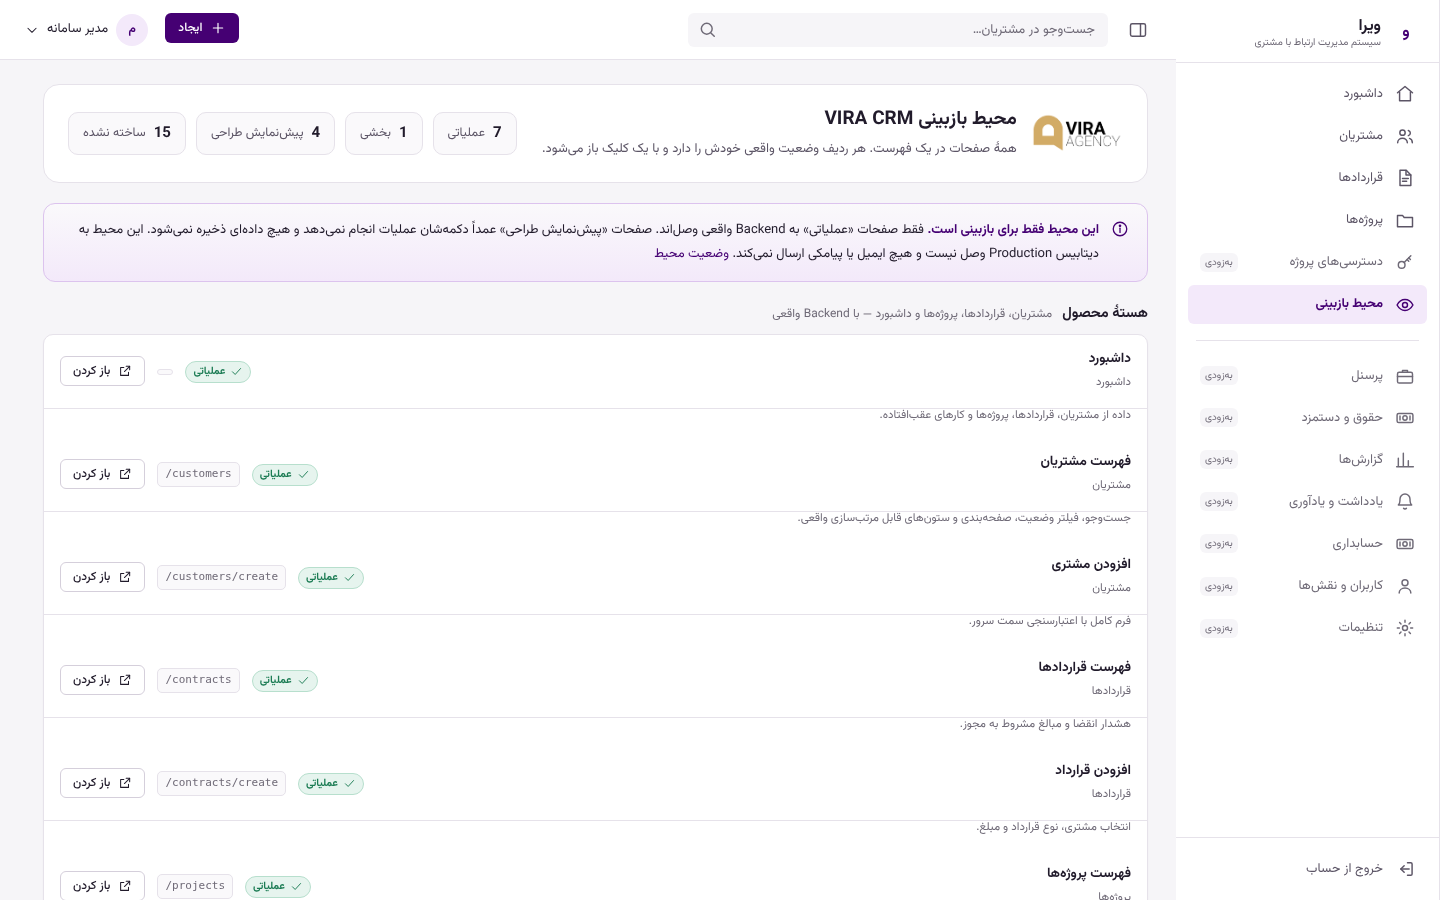
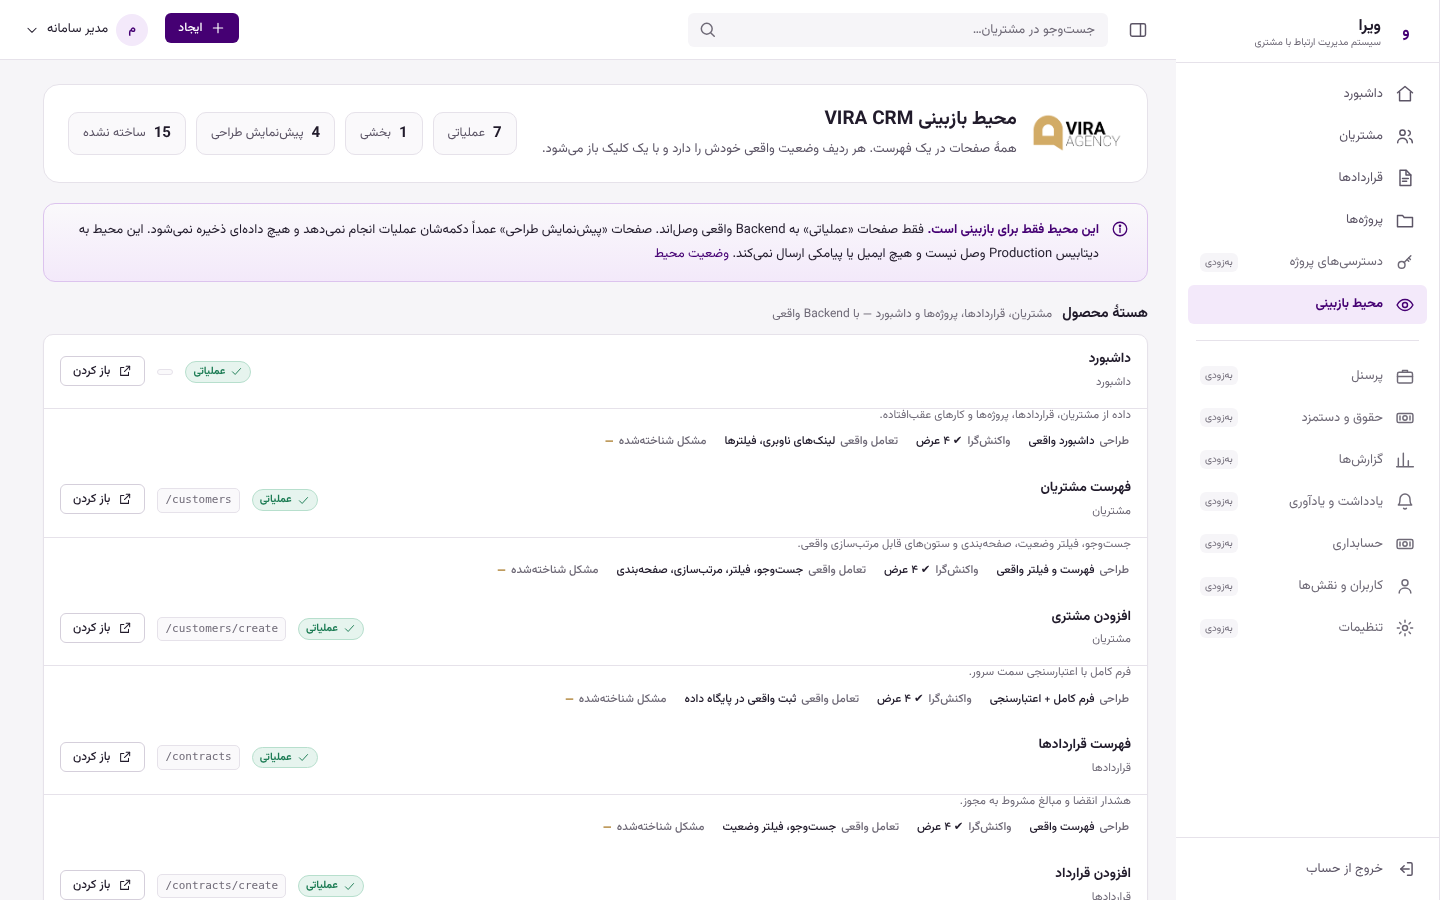
Review index: the four §20 dimensions per page, checked not assumed
The directive asks each catalogue entry to state its design, its responsive
coverage, what actually responds to a click and what is known to be broken —
not just a status label. Added design/responsive/interactive/issue to all 27
rows and rendered them as chips under each entry.

The values are deliberately NOT derived from status: contracts-index is
Functional and measured at 4 widths, drive is UI Preview and measured at 3,
employees is Not Implemented and measured at none. Flattening those into one
badge is exactly the confusion the four labels exist to prevent.

review-integrity.mjs check 7 fails if any row loses a dimension (7/7 now).
Evidence regenerated: 98 measurements, 28 screenshots, acceptance 13/13.

diff --git a/resources/css/review.css b/resources/css/review.css
@@ -309,3 +309,35 @@
 .v-table--fixed td {
     overflow-wrap: anywhere;
 }
+
+/* ── the four per-page dimensions (§20) ────────────────────────────────
+   A single wrapping row of label/value chips under each catalogue entry.
+   They wrap rather than truncate, because a truncated "known issue" is worse
+   than a taller row. */
+.v-review-dims {
+    display: flex;
+    flex-wrap: wrap;
+    gap: 6px 18px;
+    padding: 0 18px 12px;
+    margin-top: -6px;
+}
+.v-review-dim {
+    display: inline-flex;
+    align-items: baseline;
+    gap: 5px;
+    font-size: 11.5px;
+    line-height: 1.7;
+}
+.v-review-dim__label {
+    color: var(--vira-text-muted);
+    font-weight: 500;
+}
+.v-review-dim__value {
+    color: var(--vira-text);
+    font-weight: 500;
+}
+/* The last chip is the honest one; give it a hairline left rule so it reads as
+   a separate statement rather than part of the same list. */
+.v-review-dim:last-child .v-review-dim__value {
+    color: var(--vira-warning);
+}

diff --git a/config/review.php b/config/review.php
@@ -22,6 +22,14 @@
 |   3. "UI Preview" is a first-class status, not an apology. A screen with no
 |      backend says so on the page, in the sidebar, and in the inventory.
 |
+| FOUR DIMENSIONS per page (§20)
+|   The client asked for more than a status label: each page must say what the
+|   design is, whether it was measured responsively, what actually responds to a
+|   click, and what is known to be broken. `design`, `responsive`, `interactive`
+|   and `issue` are those four. They are NOT derived from `status`: a page can be
+|   Functional and still have no measured mobile layout, and saying so is the
+|   point.
+|
 | STATUS VOCABULARY (four values, no others)
 |   Functional .... backend and real interaction exist today
 |   Partial ....... some backend or interaction exists, but not the whole screen
@@ -68,42 +76,70 @@ return [
             'route' => 'dashboard', 'path' => '/', 'status' => 'Functional',
             'permission' => null, 'group' => 'core',
             'note' => 'داده از مشتریان، قراردادها، پروژهها و کارهای عقبافتاده.',
+            'design' => 'داشبورد واقعی',
+            'responsive' => '✔ ۴ عرض',
+            'interactive' => 'لینکهای ناوبری، فیلترها',
+            'issue' => '—',
         ],
         [
             'key' => 'customers', 'module' => 'مشتریان', 'title' => 'فهرست مشتریان',
             'route' => 'customers.index', 'path' => '/customers', 'status' => 'Functional',
             'permission' => 'customers.view', 'group' => 'core',
             'note' => 'جستوجو، فیلتر وضعیت، صفحهبندی و ستونهای قابل مرتبسازی واقعی.',
+            'design' => 'فهرست و فیلتر واقعی',
+            'responsive' => '✔ ۴ عرض',
+            'interactive' => 'جستوجو، فیلتر، مرتبسازی، صفحهبندی',
+            'issue' => '—',
         ],
         [
             'key' => 'customers-create', 'module' => 'مشتریان', 'title' => 'افزودن مشتری',
             'route' => 'customers.create', 'path' => '/customers/create', 'status' => 'Functional',
             'permission' => 'customers.create', 'group' => 'core',
             'note' => 'فرم کامل با اعتبارسنجی سمت سرور.',
+            'design' => 'فرم کامل + اعتبارسنجی',
+            'responsive' => '✔ ۴ عرض',
+            'interactive' => 'ثبت واقعی در پایگاه داده',
+            'issue' => '—',
         ],
         [
             'key' => 'contracts', 'module' => 'قراردادها', 'title' => 'فهرست قراردادها',
             'route' => 'contracts.index', 'path' => '/contracts', 'status' => 'Functional',
             'permission' => 'contracts.view', 'group' => 'core',
             'note' => 'هشدار انقضا و مبالغ مشروط به مجوز.',
+            'design' => 'فهرست واقعی',
+            'responsive' => '✔ ۴ عرض',
+            'interactive' => 'جستوجو، فیلتر وضعیت',
+            'issue' => '—',
         ],
         [
             'key' => 'contracts-create', 'module' => 'قراردادها', 'title' => 'افزودن قرارداد',
             'route' => 'contracts.create', 'path' => '/contracts/create', 'status' => 'Functional',
             'permission' => 'contracts.create', 'group' => 'core',
             'note' => 'انتخاب مشتری، نوع قرارداد و مبلغ.',
+            'design' => 'فرم کامل + اعتبارسنجی',
+            'responsive' => '✔ ۴ عرض',
+            'interactive' => 'ثبت واقعی',
+            'issue' => '—',
         ],
         [
             'key' => 'projects', 'module' => 'پروژهها', 'title' => 'فهرست پروژهها',
             'route' => 'projects.index', 'path' => '/projects', 'status' => 'Functional',
             'permission' => 'projects.view', 'group' => 'core',
             'note' => 'وضعیت پروژه با رنگبندی یکسان در کل محصول.',
+            'design' => 'فهرست واقعی',
+            'responsive' => '✔ ۴ عرض',
+            'interactive' => 'جستوجو، فیلتر',
+            'issue' => '—',
         ],
         [
             'key' => 'projects-create', 'module' => 'پروژهها', 'title' => 'افزودن پروژه',
             'route' => 'projects.create', 'path' => '/projects/create', 'status' => 'Functional',
             'permission' => 'projects.create', 'group' => 'core',
             'note' => 'اتصال پروژه به مشتری و قرارداد.',
+            'design' => 'فرم کامل',
+            'responsive' => '✔ ۴ عرض',
+            'interactive' => 'ثبت واقعی',
+            'issue' => '—',
         ],
 
         // ── Not built: named in the requirements, no route yet ─────────────
@@ -112,90 +148,150 @@ return [
             'route' => null, 'path' => null, 'status' => 'Not Implemented',
             'permission' => 'personnel.view', 'group' => 'operations',
             'note' => 'جدول employees وجود دارد ولی هنوز صفحه و کنترلر ندارد.',
+            'design' => 'طراحینشده',
+            'responsive' => '✘',
+            'interactive' => 'هیچ',
+            'issue' => 'صفحهای وجود ندارد',
         ],
         [
             'key' => 'payroll', 'module' => 'حقوق و دستمزد', 'title' => 'دورههای حقوق',
             'route' => null, 'path' => null, 'status' => 'Not Implemented',
             'permission' => 'payroll.view', 'group' => 'operations',
             'note' => 'جدولهای payroll موجودند؛ محاسبه و صفحه پیادهسازی نشده (M7، OD-16 باز است).',
+            'design' => 'طراحینشده',
+            'responsive' => '✘',
+            'interactive' => 'هیچ',
+            'issue' => 'صفحهای وجود ندارد',
         ],
         [
             'key' => 'notes', 'module' => 'یادداشت و یادآوری', 'title' => 'یادداشتها',
             'route' => null, 'path' => null, 'status' => 'Not Implemented',
             'permission' => 'notes.view', 'group' => 'operations',
             'note' => 'جدول notes وجود دارد؛ صفحه ندارد.',
+            'design' => 'طراحینشده',
+            'responsive' => '✘',
+            'interactive' => 'هیچ',
+            'issue' => 'جدول notes داده دارد اما صفحه ندارد',
         ],
         [
             'key' => 'search', 'module' => 'جستوجوی سراسری', 'title' => 'نتایج جستوجو',
             'route' => null, 'path' => null, 'status' => 'Not Implemented',
             'permission' => null, 'group' => 'operations',
             'note' => 'جستوجوی نوار بالا فعلاً فقط به فهرست مشتریان میرود؛ جستوجوی سراسری وجود ندارد.',
+            'design' => 'طراحینشده',
+            'responsive' => '✘',
+            'interactive' => 'هیچ',
+            'issue' => 'جستوجوی سراسری در topbar نمایشی است',
         ],
         [
             'key' => 'reports', 'module' => 'گزارشها', 'title' => 'گزارشهای مدیریتی',
             'route' => null, 'path' => null, 'status' => 'Not Implemented',
             'permission' => 'reports.view', 'group' => 'operations',
             'note' => 'هیچ کنترلر گزارشی وجود ندارد.',
+            'design' => 'طراحینشده',
+            'responsive' => '✘',
+            'interactive' => 'هیچ',
+            'issue' => 'صفحهای وجود ندارد',
         ],
         [
             'key' => 'users', 'module' => 'کاربران', 'title' => 'مدیریت کاربران',
             'route' => null, 'path' => null, 'status' => 'Not Implemented',
             'permission' => 'users.view', 'group' => 'admin',
             'note' => 'جدول users و نقشها موجودند؛ صفحه مدیریت کاربر ساخته نشده.',
+            'design' => 'طراحینشده',
+            'responsive' => '✘',
+            'interactive' => 'هیچ',
+            'issue' => 'مسیر /users وجود ندارد — ۴۰۴',
         ],
         [
             'key' => 'roles', 'module' => 'نقشها و مجوزها', 'title' => 'نقشها و مجوزها',
             'route' => null, 'path' => null, 'status' => 'Not Implemented',
             'permission' => 'users.view', 'group' => 'admin',
             'note' => '۳۹ مجوز و ۴ نقش در دیتابیس؛ ویرایشگر مجوز ساخته نشده.',
+            'design' => 'طراحینشده',
+            'responsive' => '✘',
+            'interactive' => 'هیچ',
+            'issue' => 'صفحهای وجود ندارد',
         ],
         [
             'key' => 'accounting', 'module' => 'حسابداری', 'title' => 'داشبورد حسابداری',
             'route' => null, 'path' => null, 'status' => 'Not Implemented',
             'permission' => 'payroll.view', 'group' => 'finance',
             'note' => 'طراحی حسابداری در فاز ۳ انجام شده؛ هیچ صفحهای وجود ندارد.',
+            'design' => 'طراحینشده',
+            'responsive' => '✘',
+            'interactive' => 'هیچ',
+            'issue' => 'فاز ۳',
         ],
         [
             'key' => 'accounting-income', 'module' => 'حسابداری', 'title' => 'درآمد و هزینه',
             'route' => null, 'path' => null, 'status' => 'Not Implemented',
             'permission' => 'payroll.view', 'group' => 'finance',
             'note' => 'بدون صفحه و بدون Backend.',
+            'design' => 'طراحینشده',
+            'responsive' => '✘',
+            'interactive' => 'هیچ',
+            'issue' => 'فاز ۳',
         ],
         [
             'key' => 'accounting-cash', 'module' => 'حسابداری', 'title' => 'نقد و بانک',
             'route' => null, 'path' => null, 'status' => 'Not Implemented',
             'permission' => 'payroll.view', 'group' => 'finance',
             'note' => 'بدون صفحه و بدون Backend.',
+            'design' => 'طراحینشده',
+            'responsive' => '✘',
+            'interactive' => 'هیچ',
+            'issue' => 'فاز ۳',
         ],
         [
             'key' => 'accounting-receivables', 'module' => 'حسابداری', 'title' => 'مطالبات و بدهیها',
             'route' => null, 'path' => null, 'status' => 'Not Implemented',
             'permission' => 'payroll.view', 'group' => 'finance',
             'note' => 'بدون صفحه و بدون Backend.',
+            'design' => 'طراحینشده',
+            'responsive' => '✘',
+            'interactive' => 'هیچ',
+            'issue' => 'فاز ۳',
         ],
         [
             'key' => 'accounting-reports', 'module' => 'حسابداری', 'title' => 'گزارشهای مالی',
             'route' => null, 'path' => null, 'status' => 'Not Implemented',
             'permission' => 'payroll.view', 'group' => 'finance',
             'note' => 'بدون صفحه و بدون Backend.',
+            'design' => 'طراحینشده',
+            'responsive' => '✘',
+            'interactive' => 'هیچ',
+            'issue' => 'فاز ۳',
         ],
         [
             'key' => 'settings', 'module' => 'تنظیمات', 'title' => 'تنظیمات سیستم',
             'route' => null, 'path' => null, 'status' => 'Not Implemented',
             'permission' => 'settings.view', 'group' => 'admin',
             'note' => 'جدول settings موجود است؛ صفحه تنظیمات ساخته نشده.',
+            'design' => 'طراحینشده',
+            'responsive' => '✘',
+            'interactive' => 'هیچ',
+            'issue' => 'صفحهای وجود ندارد',
         ],
         [
             'key' => 'project-credentials', 'module' => 'دسترسیهای پروژه', 'title' => 'دسترسیهای پروژه',
             'route' => null, 'path' => null, 'status' => 'Not Implemented',
             'permission' => 'credentials.view', 'group' => 'admin',
             'note' => 'جدولهای credential موجودند؛ صفحه رمزنگاریشده ساخته نشده.',
+            'design' => 'طراحینشده',
+            'responsive' => '✘',
+            'interactive' => 'هیچ',
+            'issue' => 'رمز دسترسیها صفحه ندارد',
         ],
         [
             'key' => 'admin', 'module' => 'مدیریت سیستم', 'title' => 'مدیریت سیستم',
             'route' => null, 'path' => null, 'status' => 'Not Implemented',
             'permission' => 'settings.view', 'group' => 'admin',
             'note' => 'سلامت سیستم، صف، بکاپ — هیچکدام صفحه ندارند.',
+            'design' => 'طراحینشده',
+            'responsive' => '✘',
+            'interactive' => 'هیچ',
+            'issue' => 'سلامت/صف/بکاپ صفحه ندارد',
         ],
 
         // ── UI Preview: design only, deliberately marked ───────────────────
@@ -204,30 +300,50 @@ return [
             'route' => null, 'path' => null, 'status' => 'UI Preview',
             'preview' => 'drive', 'permission' => 'files.download', 'group' => 'drive',
             'note' => 'F0 فقط مستندات بود؛ هیچ کد ماژول فایل نوشته نشده. این صفحه طراحی است، نه عملکرد.',
+            'design' => 'سهپنلی، RTL',
+            'responsive' => '✔ ۳ عرض اندازهگیری',
+            'interactive' => 'هیچ — همهٔ دکمهها نمایشی',
+            'issue' => 'بدون backend؛ کلیک روی فایل کاری نمیکند',
         ],
         [
             'key' => 'drive-permissions', 'module' => 'Vira Drive', 'title' => 'مجوزهای فایل',
             'route' => null, 'path' => null, 'status' => 'UI Preview',
             'preview' => 'drive-permissions', 'permission' => 'files.download', 'group' => 'drive',
             'note' => 'مدل مجوز در سند طراحی است؛ تصمیمهای OD-104/105 هنوز بازند.',
+            'design' => 'جدول ماتریس + تقدم ۶ مرحله',
+            'responsive' => '✔ ۷ عرض',
+            'interactive' => 'هیچ',
+            'issue' => 'OD-104/105 باز؛ ماتریس اجرا نمیشود',
         ],
         [
             'key' => 'drive-versions', 'module' => 'Vira Drive', 'title' => 'نسخهها و قفلها',
             'route' => null, 'path' => null, 'status' => 'UI Preview',
             'preview' => 'drive-versions', 'permission' => 'files.download', 'group' => 'drive',
             'note' => 'قفل و نسخهبندی طراحی شدهاند؛ هیچ تست ویندوزی اجرا نشده.',
+            'design' => 'تایملاین + قفل + فعالیت',
+            'responsive' => '✔ ۷ عرض',
+            'interactive' => 'هیچ',
+            'issue' => 'قفل و TTL نمایشی؛ هیچ تست ویندوزی',
         ],
         [
             'key' => 'org', 'module' => 'ساختار سازمانی', 'title' => 'ساختار سازمانی و کارمندان',
             'route' => null, 'path' => null, 'status' => 'UI Preview',
             'preview' => 'org', 'permission' => 'users.view', 'group' => 'admin',
             'note' => 'Model A طراحی شده؛ هیچ جدول departments یا file_groups وجود ندارد. کارمندان از جدول واقعی خوانده میشوند.',
+            'design' => 'کارت نقش + جدول کارمند',
+            'responsive' => '✔ ۷ عرض',
+            'interactive' => 'هیچ — فقط خواندن',
+            'issue' => 'جدول departments وجود ندارد',
         ],
         [
             'key' => 'project-team', 'module' => 'ساختار سازمانی', 'title' => 'تیم پروژه',
             'route' => null, 'path' => null, 'status' => 'Partial',
             'preview' => 'project-team', 'permission' => 'projects.view', 'group' => 'admin',
             'note' => 'داده از project_assignments واقعی؛ اما هیچ مجوزی از این عضویت حل نمیشود — OD-118 باز است.',
+            'design' => 'کارت پروژه + جدول اعضا',
+            'responsive' => '✔ ۷ عرض',
+            'interactive' => 'هیچ — فقط خواندن',
+            'issue' => 'هیچ مجوزی از عضویت حل نمیشود (OD-118)',
         ],
     ],
 ];

diff --git a/resources/views/review/index.blade.php b/resources/views/review/index.blade.php
@@ -86,6 +86,28 @@
                     @if (! empty($page['note']))
                         <div class="v-review-note">{{ $page['note'] }}</div>
                     @endif
+
+                    {{-- §20: the four dimensions the client asked to see per page.
+                         They are stated, not implied by the status label, because a
+                         Functional page can still have an unmeasured mobile layout. --}}
+                    @php
+                        $dims = array_filter([
+                            'طراحی' => $page['design'] ?? null,
+                            'واکنشگرا' => $page['responsive'] ?? null,
+                            'تعامل واقعی' => $page['interactive'] ?? null,
+                            'مشکل شناختهشده' => $page['issue'] ?? null,
+                        ], fn ($v) => $v !== null && $v !== '');
+                    @endphp
+                    @if ($dims)
+                        <div class="v-review-dims">
+                            @foreach ($dims as $label => $value)
+                                <span class="v-review-dim">
+                                    <span class="v-review-dim__label">{{ $label }}</span>
+                                    <span class="v-review-dim__value">{{ $value }}</span>
+                                </span>
+                            @endforeach
+                        </div>
+                    @endif
                 @endforeach
             </div>
         </section>
